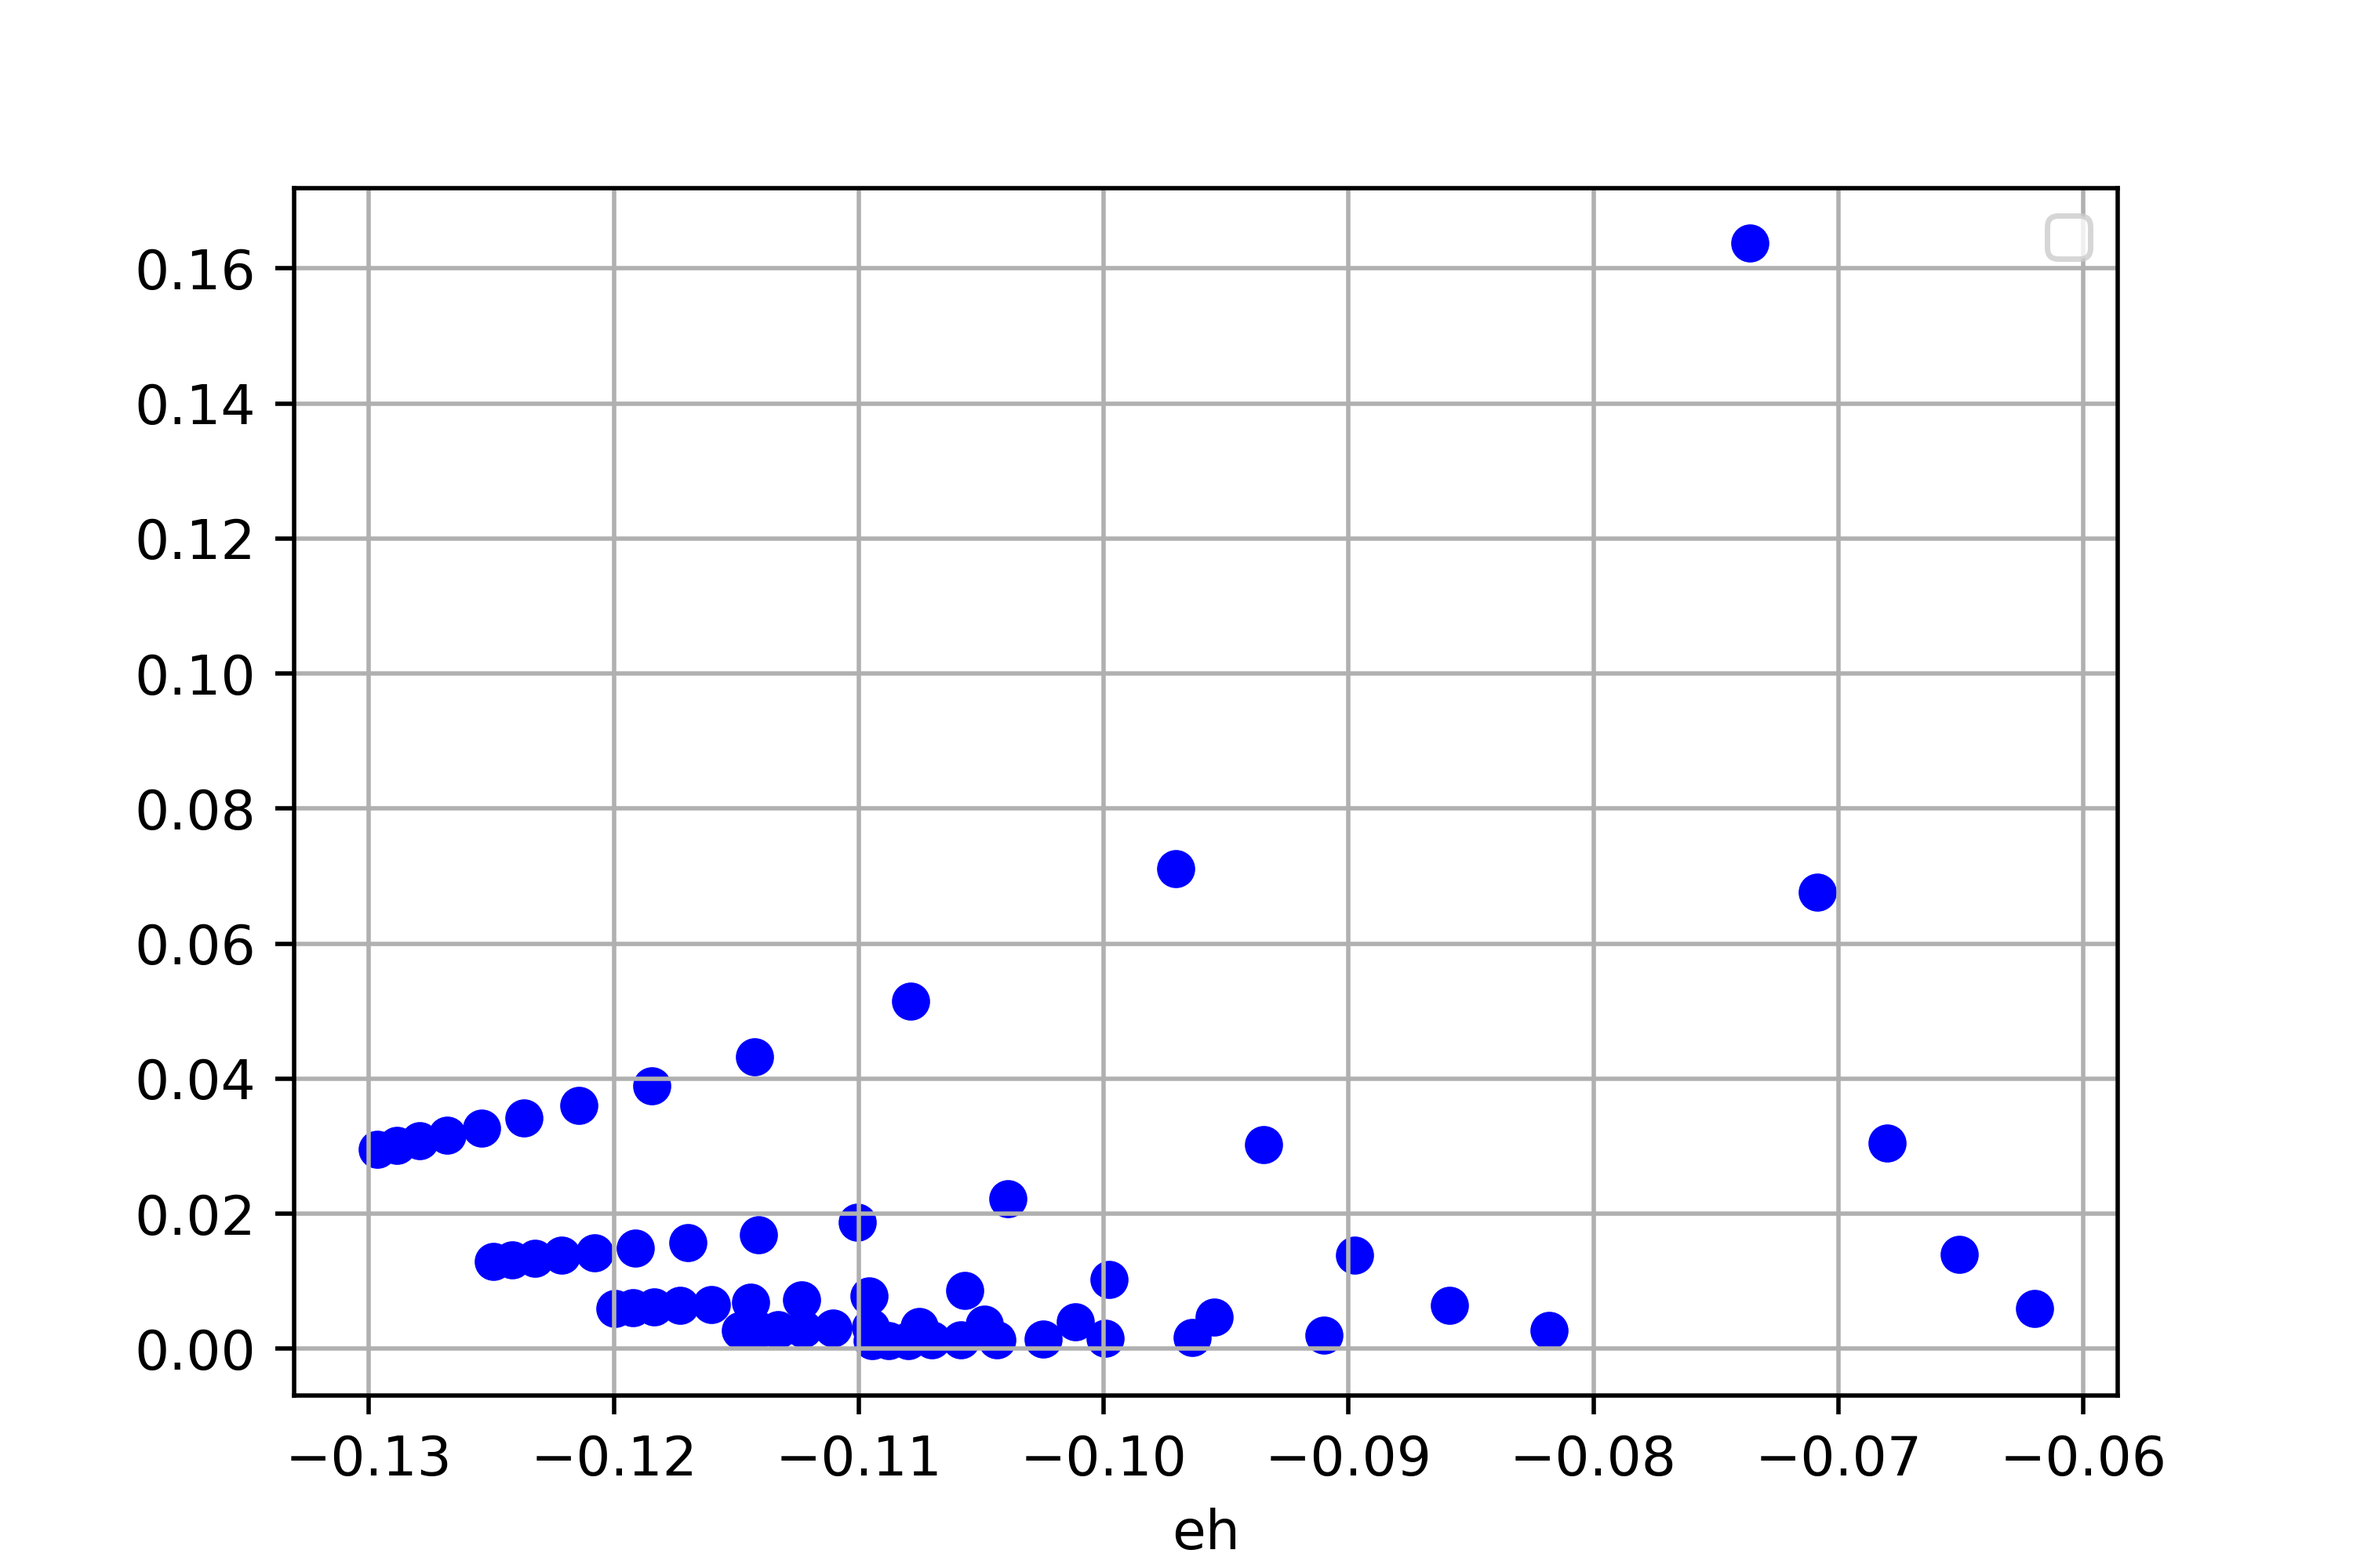
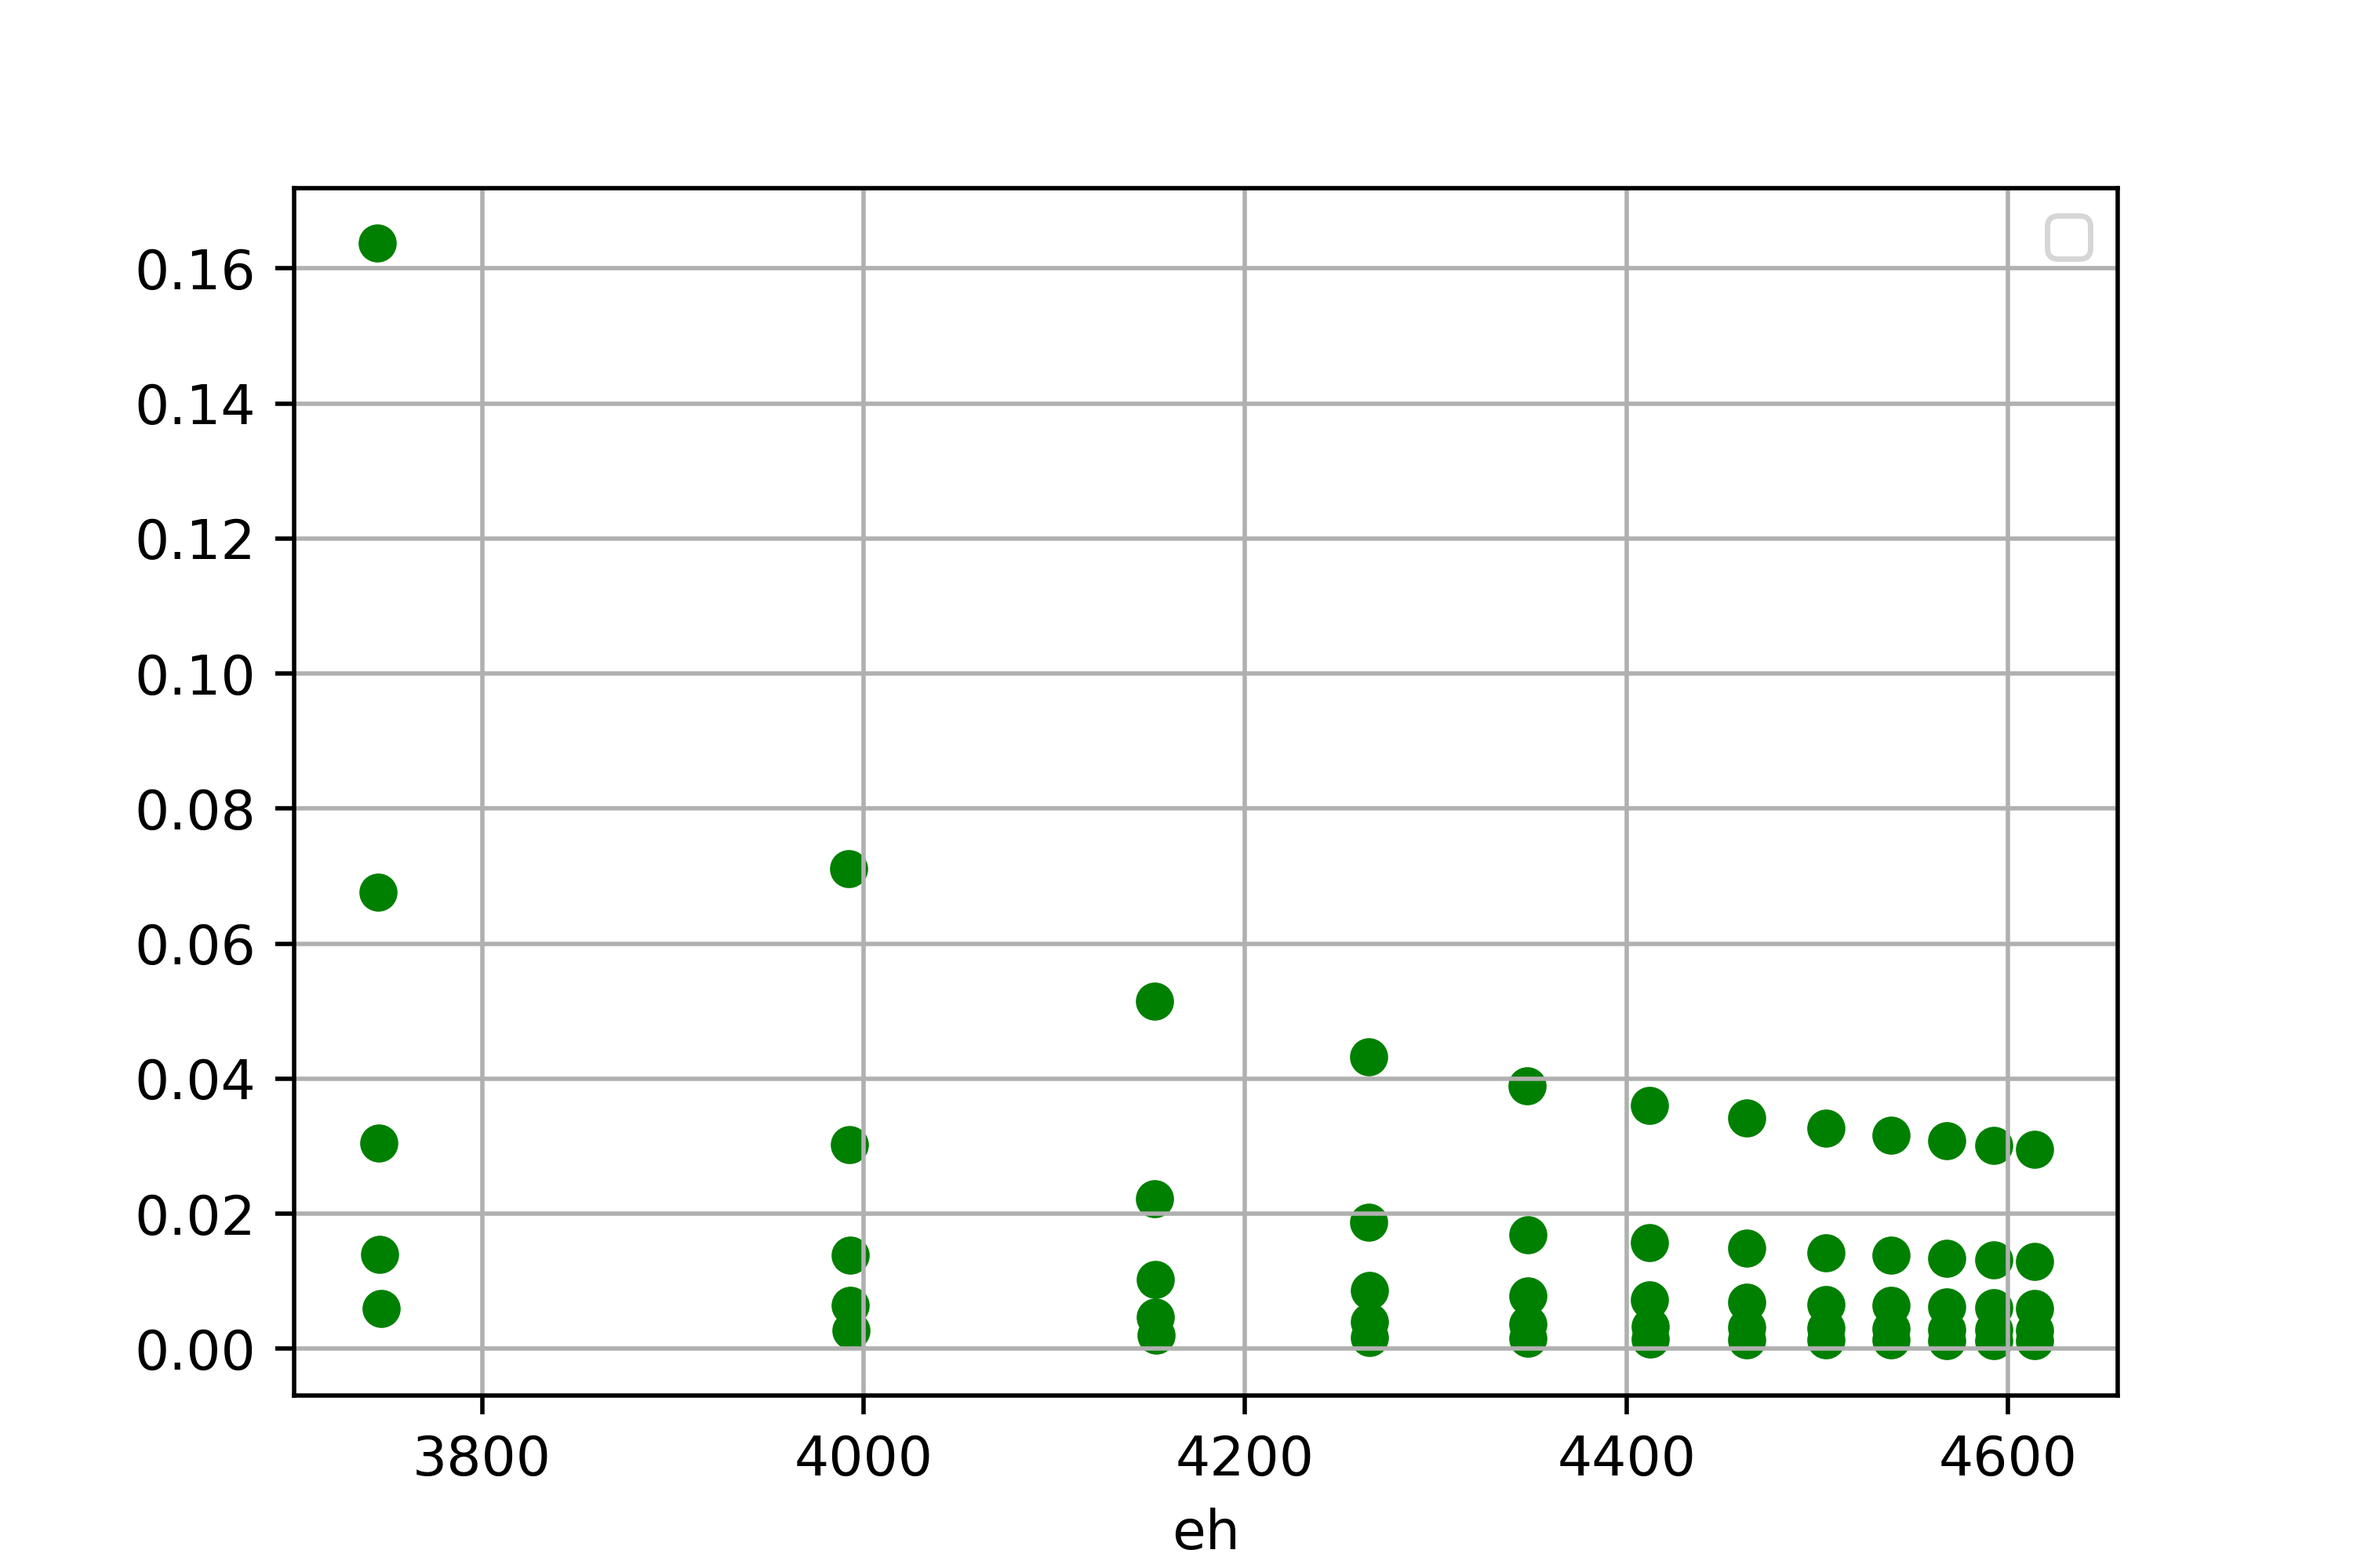
data analysis

diff --git a/data_corelation.py b/data_corelation.py
@@ -12,6 +12,7 @@ import csv
 csv_file=pd.read_csv("data/data_all_sims.csv")
 
 name = np.array(csv_file["Simulation"])
+hp = np.array(csv_file["hp"])
 a_coeff = np.array(csv_file["a"])
 b_coeff = np.array(csv_file["b"])
 c_coeff = np.array(csv_file["c"])
@@ -24,8 +25,8 @@ tf_lamb = np.array(csv_file["tf_lamb"])
 
 fig_acoeff = plt.figure("a_coeff", dpi=500, figsize=[6,4])
 plt.figure("a_coeff")
-# plt.scatter(v0, a_coeff, color='green', marker='o')   
-plt.scatter(y0, a_coeff, color='blue', marker='o')    
+plt.scatter(v0, a_coeff, color='green', marker='o')   
+# plt.scatter(y0, a_coeff, color='blue', marker='o')    
 plt.legend();plt.grid()
 plt.xlabel("eh")
 fig_acoeff.savefig("all_sims_figures/a_ceoff.png")
